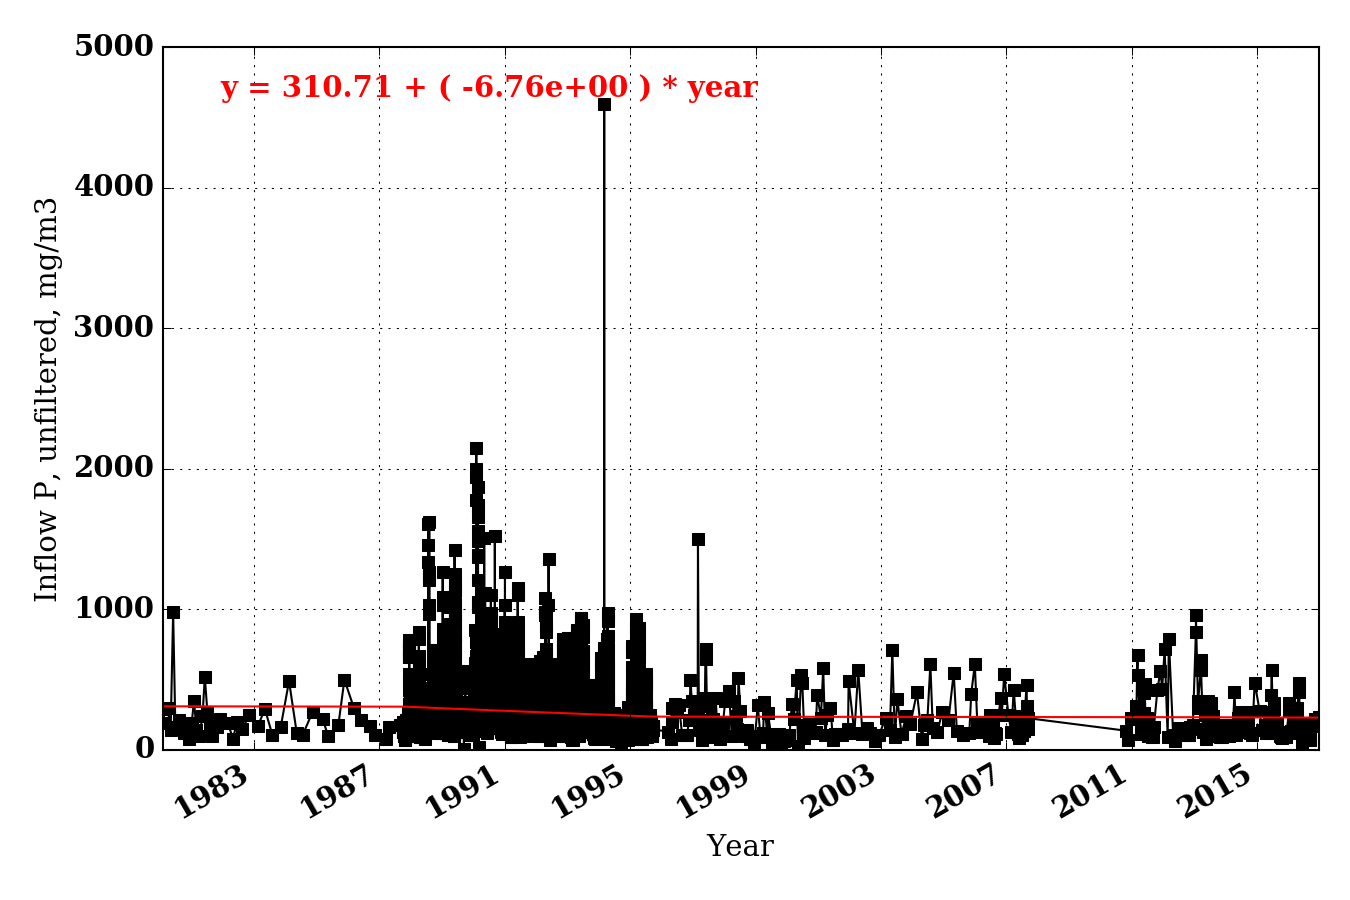
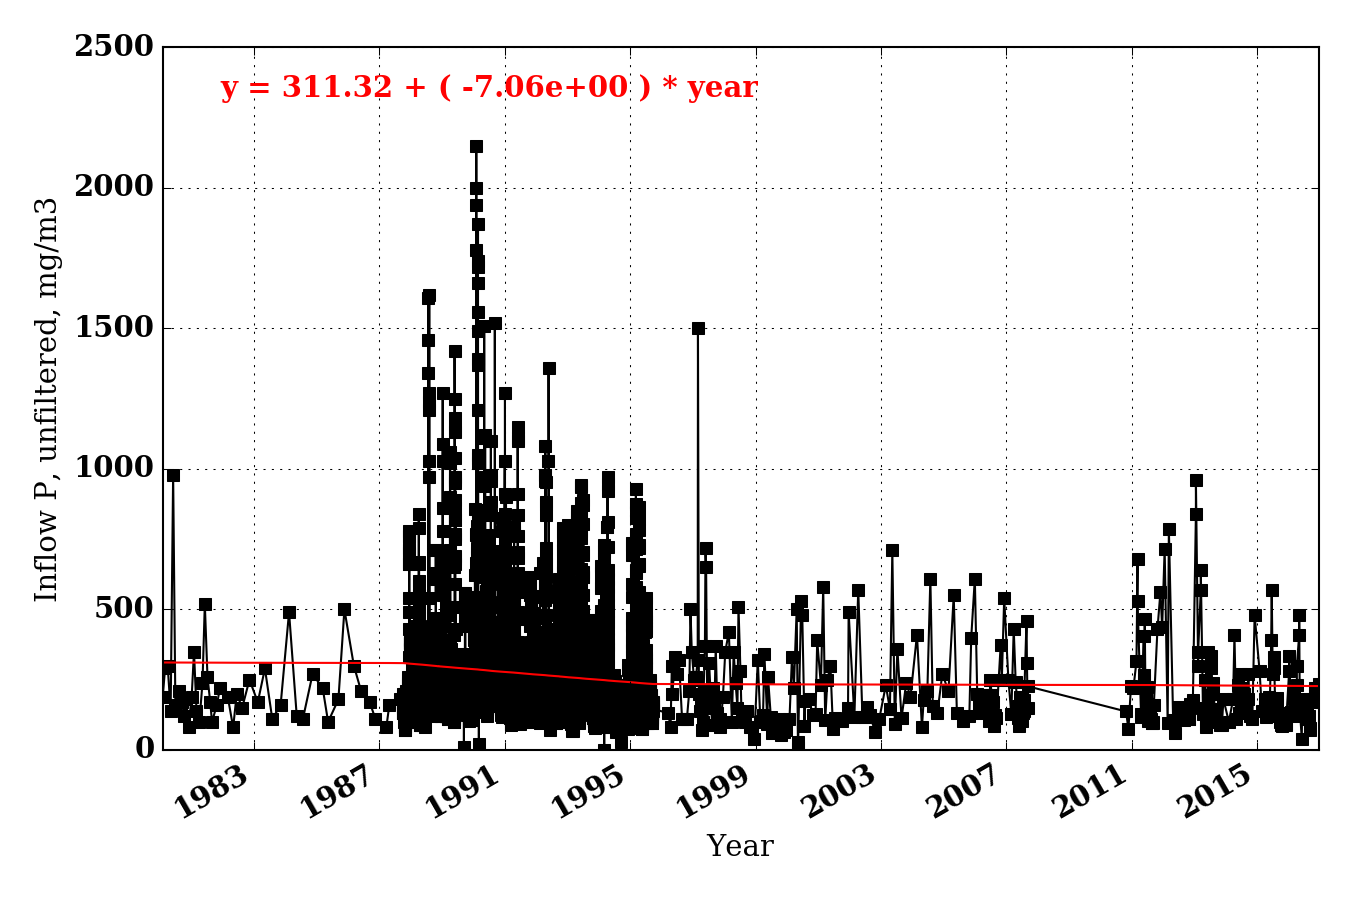
updated graphs

diff --git a/post_proc_scripts/ploting.py b/post_proc_scripts/ploting.py
@@ -9,7 +9,7 @@ import statsmodels.formula.api as sm
 
 plt.style.use('classic')
 
-save_fig = False
+save_fig = True
 
 
 def linear_fit(df, column):
@@ -133,6 +133,7 @@ def plotting_weather_wester_basin():
     plot_graphs(df, r'inflowO2', r'Inflow O2', 'mg/m3')
     # plot_graphs(df, r'inflowSuspUnfilt', r'Inflow Suspended solids, unfiltered', 'mg/m3')
     df.rename(columns={r'*Phosphorus, water, unfiltered, as phosphorus [mg m-3]': 'inflowP'}, inplace=True)
+    df.inflowP[df.inflowP > 3000] = 0
     plot_graphs(df, r'inflowP', r'Inflow P, unfiltered', 'mg/m3', lines=True)
     df.rename(columns={r'* Phosphorus, water, filtered, as phosphorus [mg m-3]': 'inflowPfil'}, inplace=True)
     df.rename(columns={r'* Orthophosphate, water, filtered,  as phosphorus [mg m-3]': 'inflowPO4filA'}, inplace=True)
@@ -168,5 +169,5 @@ def plotting_weather_wester_basin():
     plot_graphs(df, r'inflowNO3', r'Inflow NO3', 'mg/m3', lines=True)
 
 if __name__ == '__main__':
-    # plotting_weather_wester_basin()
+    plotting_weather_wester_basin()
     pass
